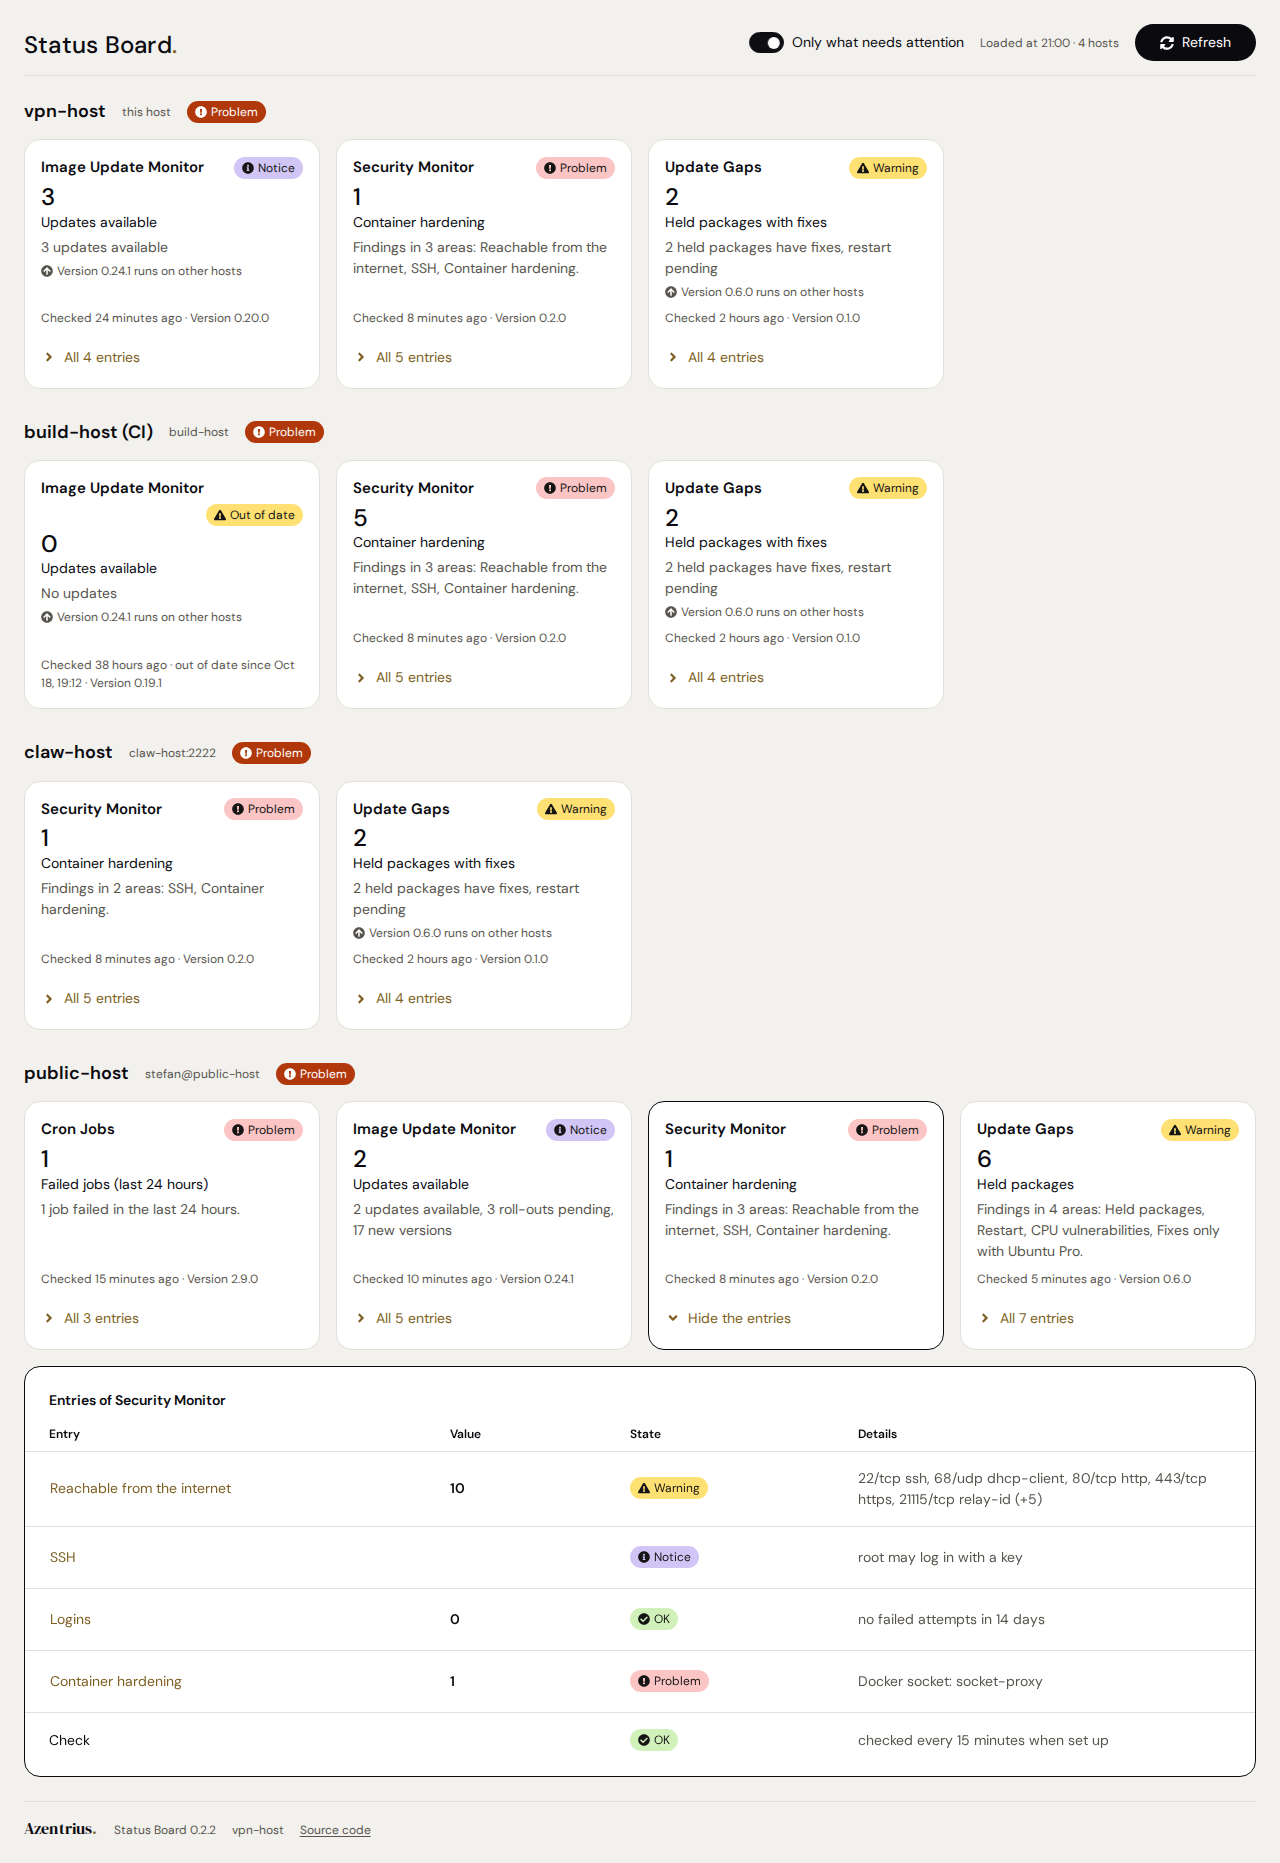
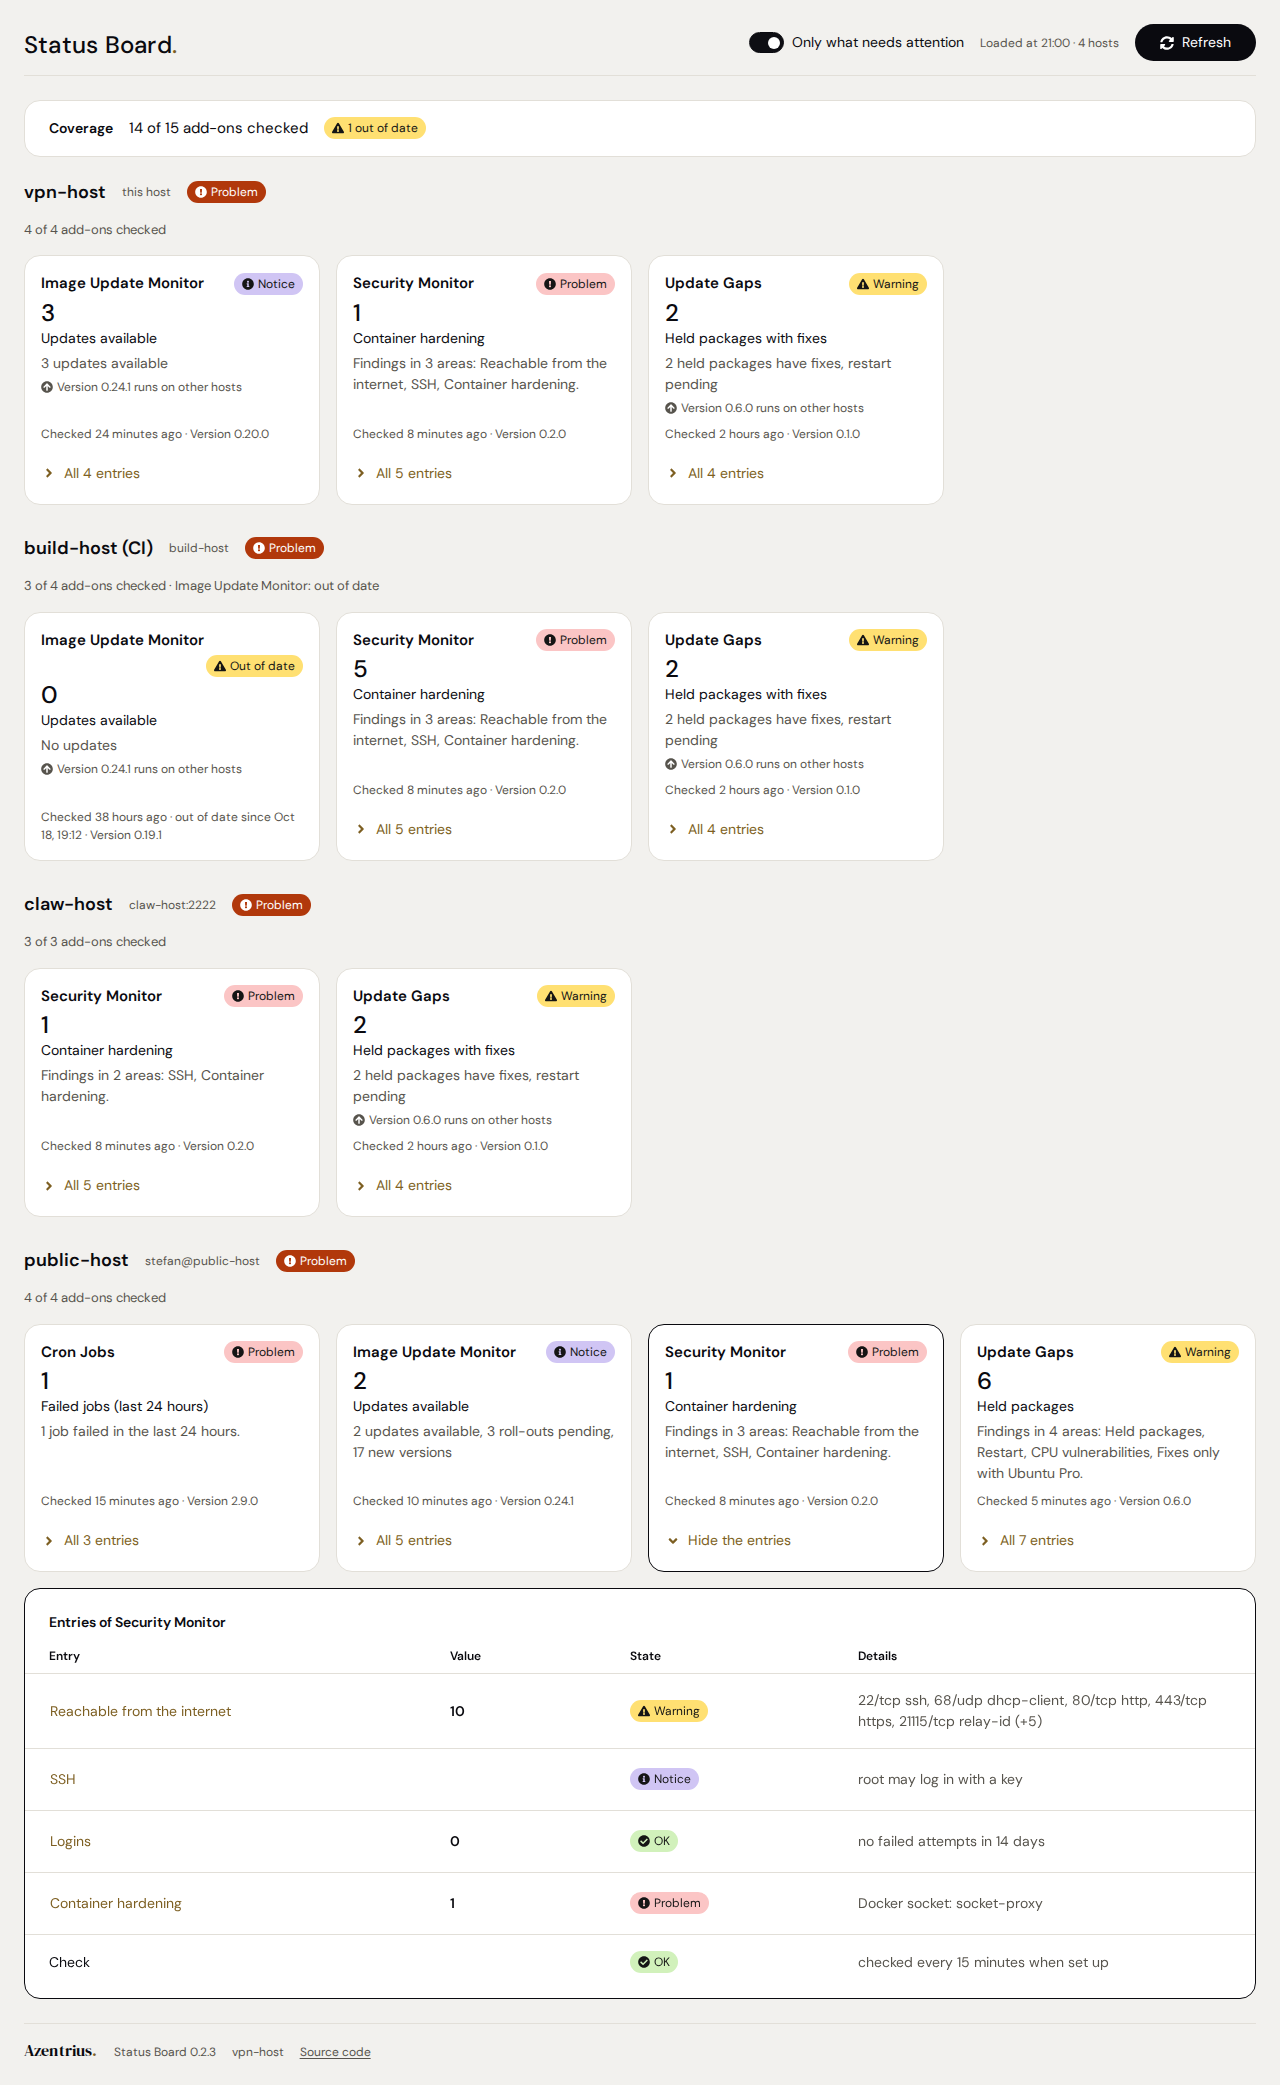
Show the coverage in the README and AppStream pictures

diff --git a/README.md b/README.md
@@ -11,7 +11,7 @@ It belongs on the Cockpit host from which the others are reached.
 Status Board only reads. It runs each add-on's `status` verb, asks for no administrative access
 and changes nothing on any host; a click on a tile opens the add-on on its host.
 
-![The board on a bastion with three hosts behind it, one tile per add-on](docs/img/board.png)
+![The board on a bastion with three hosts behind it: the coverage above, one tile per add-on](docs/img/board.png)
 
 **Contents**
 
